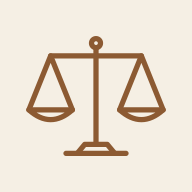
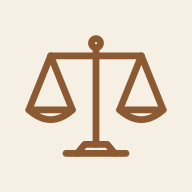
Add files via upload

Changed region(s): [[0.125, 0.1875, 0.875, 0.8438]]

diff --git a/index.html b/index.html
@@ -2,7 +2,7 @@
 <html lang="ja">
 <head>
 <meta charset="utf-8">
-<meta name="viewport" content="width=device-width, initial-scale=1, viewport-fit=cover">
+<meta name="viewport" content="width=device-width, initial-scale=1, maximum-scale=1, user-scalable=no, viewport-fit=cover">
 <meta name="theme-color" content="#F5EFE4">
 <meta name="color-scheme" content="light">
 <meta name="apple-mobile-web-app-capable" content="yes">
@@ -29,13 +29,17 @@
 }
 * { box-sizing: border-box; }
 html { -webkit-text-size-adjust: 100%; }
+/* ダブルタップでの拡大を防ぐ (スクロールはそのまま) */
+html, body, button, input, select, textarea, label { touch-action: manipulation; }
 body {
   margin: 0; background: var(--bg); color: var(--text);
   font-family: -apple-system, BlinkMacSystemFont, "Hiragino Sans", "Hiragino Kaku Gothic ProN", sans-serif;
   font-size: 17px; line-height: 1.5;
   -webkit-tap-highlight-color: transparent;
 }
-button, input, select { font: inherit; color: inherit; }
+button, input, select, textarea { font: inherit; color: inherit; }
+/* 入力欄は 16px 以上 (iPhone が入力時に自動で拡大しないように)。個別の指定はすべてこれ以上 */
+input, select, textarea { font-size: 16px; }
 button { cursor: pointer; }
 
 main {
@@ -131,6 +135,8 @@ body:not(.mode-net) .net-only { display: none !important; }
   padding: 0 10px; font-weight: 600; font-size: 15px;
 }
 .bd { display: block; font-size: 13px; color: var(--muted); margin-top: 2px; }
+/* 2位以下の内訳: 名前と単価の下にカードの全幅で置き、最大2行に収める */
+.others .bd-row { flex-basis: 100%; margin-top: -4px; line-height: 1.45; }
 
 /* 履歴に保存 */
 .others li { flex-wrap: wrap; }
@@ -309,7 +315,7 @@ nav.tabs button[aria-selected="true"] .ic { color: var(--accent); }
 .io-label { font-size: 13px; color: var(--muted); margin-top: 6px; }
 .io-text {
   width: 100%; height: 110px; resize: vertical; border: 1.5px solid var(--line); border-radius: 10px;
-  background: var(--bg); padding: 8px 10px; font: 13px/1.4 ui-monospace, Menlo, monospace; color: var(--text);
+  background: var(--bg); padding: 8px 10px; font: 16px/1.4 ui-monospace, Menlo, monospace; color: var(--text);
 }
 .io-text:focus { outline: none; border-color: var(--accent); }
 .io-msg { margin: 0; font-size: 14px; font-weight: 600; }
@@ -718,8 +724,8 @@ function renderResult() {
       const dTxt = d < 1e-9 ? '1位と同じ' : w.up > 0 ? `+${yen(d)} (+${(d / w.up * 100).toFixed(1)}%)` : `+${yen(d)}`;
       const bd = breakdown(r);
       html += `<li><span class="pos">${k + 2}位</span>
-        <span class="nm">${LETTERS[r.i]}　${esc(labelOf(r))}${bd ? `<span class="bd">${bd}</span>` : ''}</span>
-        <span class="up">${yen(r.up)}<span class="diff">${dTxt}</span></span>${saveArea(r)}</li>`;
+        <span class="nm">${LETTERS[r.i]}　${esc(labelOf(r))}</span>
+        <span class="up">${yen(r.up)}<span class="diff">${dTxt}</span></span>${bd ? `<span class="bd bd-row">${bd}</span>` : ''}${saveArea(r)}</li>`;
     });
     html += '</ul>';
   }
@@ -1481,6 +1487,8 @@ renderMode();
 renderCands();
 renderHistory();
 showTab('stores'); // 店舗タブから始める (前回開いていたフォルダがあればそのフォルダ)
+// ピンチでの拡大を防ぐ (iOS Safari の gesture イベント。1本指のスクロールには関係しない)
+['gesturestart', 'gesturechange'].forEach((t) => document.addEventListener(t, (e) => e.preventDefault(), { passive: false }));
 // file:// で開いたときは Service Worker を登録しない (http/https のみ)
 if ('serviceWorker' in navigator && /^https?:$/.test(location.protocol)) {
   window.addEventListener('load', () => navigator.serviceWorker.register('sw.js').catch((e) => console.warn('SW登録失敗', e)));

diff --git a/sw.js b/sw.js
@@ -1,7 +1,7 @@
 // どっち得 Service Worker
 // ネット優先・失敗時はキャッシュ (オンラインなら常に最新、一度開けばオフラインでも開ける)
 // アプリのファイルを変えたら CACHE のバージョンを上げる
-const CACHE = 'docchi-v6';
+const CACHE = 'docchi-v7';
 const ASSETS = ['./', './index.html', './manifest.webmanifest', './icon-192.png', './icon-512.png'];
 
 self.addEventListener('install', (e) => {
